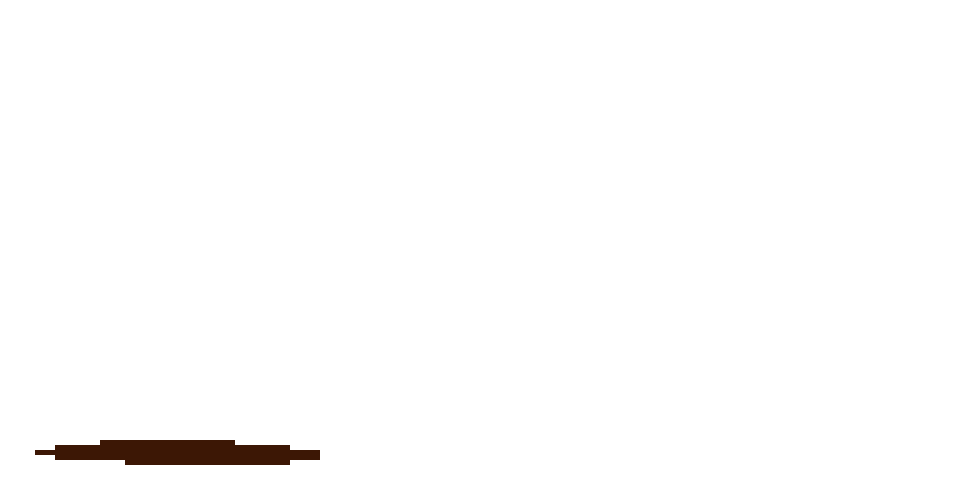
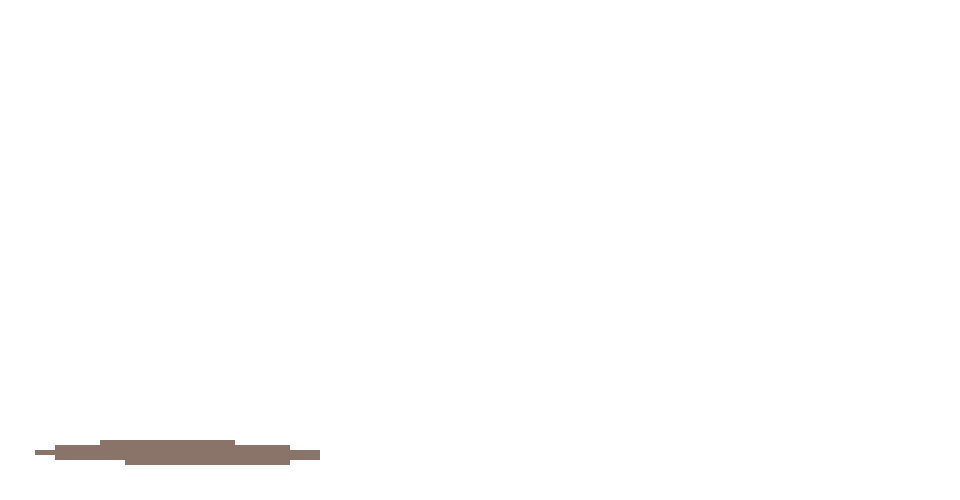
i think it's finished?

Changed region(s): [[0.0312, 0.87, 0.3438, 0.93]]

diff --git a/clock.js b/clock.js
@@ -87,7 +87,6 @@ function preload() {
   bushB2 = loadImage("assets/bushB2.png");
 
   tumbleweed = loadImage("assets/tumbleweedB.png");
-  TWshadow = loadImage("assets/tw shadow.png");
 
   steam = loadImage("assets/steamAnimation.gif");
   trainUP = loadImage("assets/trainUP.png");
@@ -105,14 +104,8 @@ function preload() {
   
   vultureAlarm = loadImage("assets/vulture_animation.gif");
   vulture = new Vulture(vulture, vulture2, vultureAlarm, 720, 140);
-  vultureAnimating = false;
-  vStart = 0;
-  vEnd = 300;
-  clickCount = 0;
 
-  /// LOAD FONTS
-  western = loadFont("assets/Pixel-Western.ttf");
-  yoster = loadFont("assets/yoster.ttf");
+  /// LOAD FONT
   blockBlue = loadFont("assets/BlockBlueprint.ttf");
 
   /// SET UP LEAVES
@@ -189,6 +182,9 @@ function draw_clock(obj) {
   //        = 0 if the alarm is currently going off
   //        > 0 --> the number of seconds until alarm should go off
 
+  
+
+
   // check if seconds is odd or even for idle animaitons
   if (obj.seconds % 2 == 1) {
     idleRight = true;
@@ -213,16 +209,7 @@ function draw_clock(obj) {
   fourToFiveSky = lerpColor(skyColour, fourSky, amount)
   fiveToSixSky = lerpColor(fourSky, fiveSky, amount)
   let sunsetToNight = lerpColor(fiveSky, night, amount)
-  let fiveTint = color(190,158,192)
 
-
-  // if(obj.hours >= 18 || obj.hours < 6){
-  //   background("110f24")
-  // }else if(obj.hours == 6){
-  //   background("110f24")
-  // }else{
-  //   background("#70b3b2")
-  // }
   if(obj.hours == 6){
     background(sixToSevenSky)
   }else if(obj.hours == 7){
@@ -304,8 +291,6 @@ function draw_clock(obj) {
     tint(red(sunriseTint), green(sunriseTint), blue(sunriseTint), 255)
   }else if(obj.hours == 8){
     tint(red(sunriseToMorning), green(sunriseToMorning), blue(sunriseToMorning), 255)
-  }else if(obj.hours == 17){
-    tint(red(fiveTint), green(fiveTint), blue(fiveTint), 255)
   }else if(obj.hours == 18){
     tint(red(sunsetTint), green(sunsetTint), blue(sunsetTint), 255)
   }else if(obj.hours == 19){
@@ -314,8 +299,7 @@ function draw_clock(obj) {
     noTint()
   }
 
-  
-  
+  // draw the background
   image(bg, 0, 0);
 
   
@@ -357,8 +341,6 @@ function draw_clock(obj) {
     image(bushB2, 60, 405);
   }
 
-  // image(bushA1, 80, 395)
-
   image(rock4, 75, 440);
 
   /////////////////// END OF ROCKS //////////////////////
@@ -398,25 +380,8 @@ function draw_clock(obj) {
   }
 
   // DRAW THE TREE'S SHADOW
-  // fill("#642c0e")
-  
-
-  // tint(150, 150);
-  // image(treeShadow, 0, 10);
-  // image(signShadow, 695, 440);
-  // tree shadow
-
-  fill(60,23,5,150)
-  noStroke()
-  rect(70, 455, 200, 5)
-  rect(35, 460, 285, 5)
-  rect(55, 465, 265, 5)
-  rect(100, 470, 190, 5)
-
-  rect(710, 440, 165, 5)
-  rect(695, 445, 200, 5)
-  rect(725, 450, 160, 5)
-  // tint(255, 255);
+  image(treeShadow, 0, 10);
+  image(signShadow, 695, 440);
 
   // DRAW THE TREE TRUNK
   image(tree, 0, 10);
@@ -458,7 +423,7 @@ function draw_clock(obj) {
     mouseY > yMin &&
     mouseY < yMax
   ) {
-    cowboyAnimation = obj.seconds + 3; // Set speed boost to last 3 seconds
+    cowboyAnimation = obj.seconds + 3;
     if (cowboyAnimation == 59) {
       cowboyAnimation == 0;
     }
@@ -508,21 +473,6 @@ function draw_clock(obj) {
   
     image(rock2, 725, 430);
   
-
-    // if(clickCount == 3){
-    //   vultureAnimating = true;
-    //   vStart = obj.millis;
-    //   clickCount = 0;
-    // }
-
-    // if(vultureAnimating){
-    //   vulture.animate();
-    //   if(obj.millis - vStart > vEnd){
-    //     vultureAnimating = false;
-    //   }
-    // }else
-    
-    
     if(obj.seconds_until_alarm < 0 || obj.seconds_until_alarm === undefined){
       // alarm is not set
       vulture.draw(obj.seconds);
@@ -540,14 +490,7 @@ function draw_clock(obj) {
   ////////////////// END OF VULTURE //////////////////////
   ///////////////////////////////////////////////////////
 
-  // debug for hour
-
-  fill("black");
-  textFont(blockBlue, 30);
-  text(obj.hours, 900, 485);
-
-
-
+  
 }
 
 function mousePressed(){
